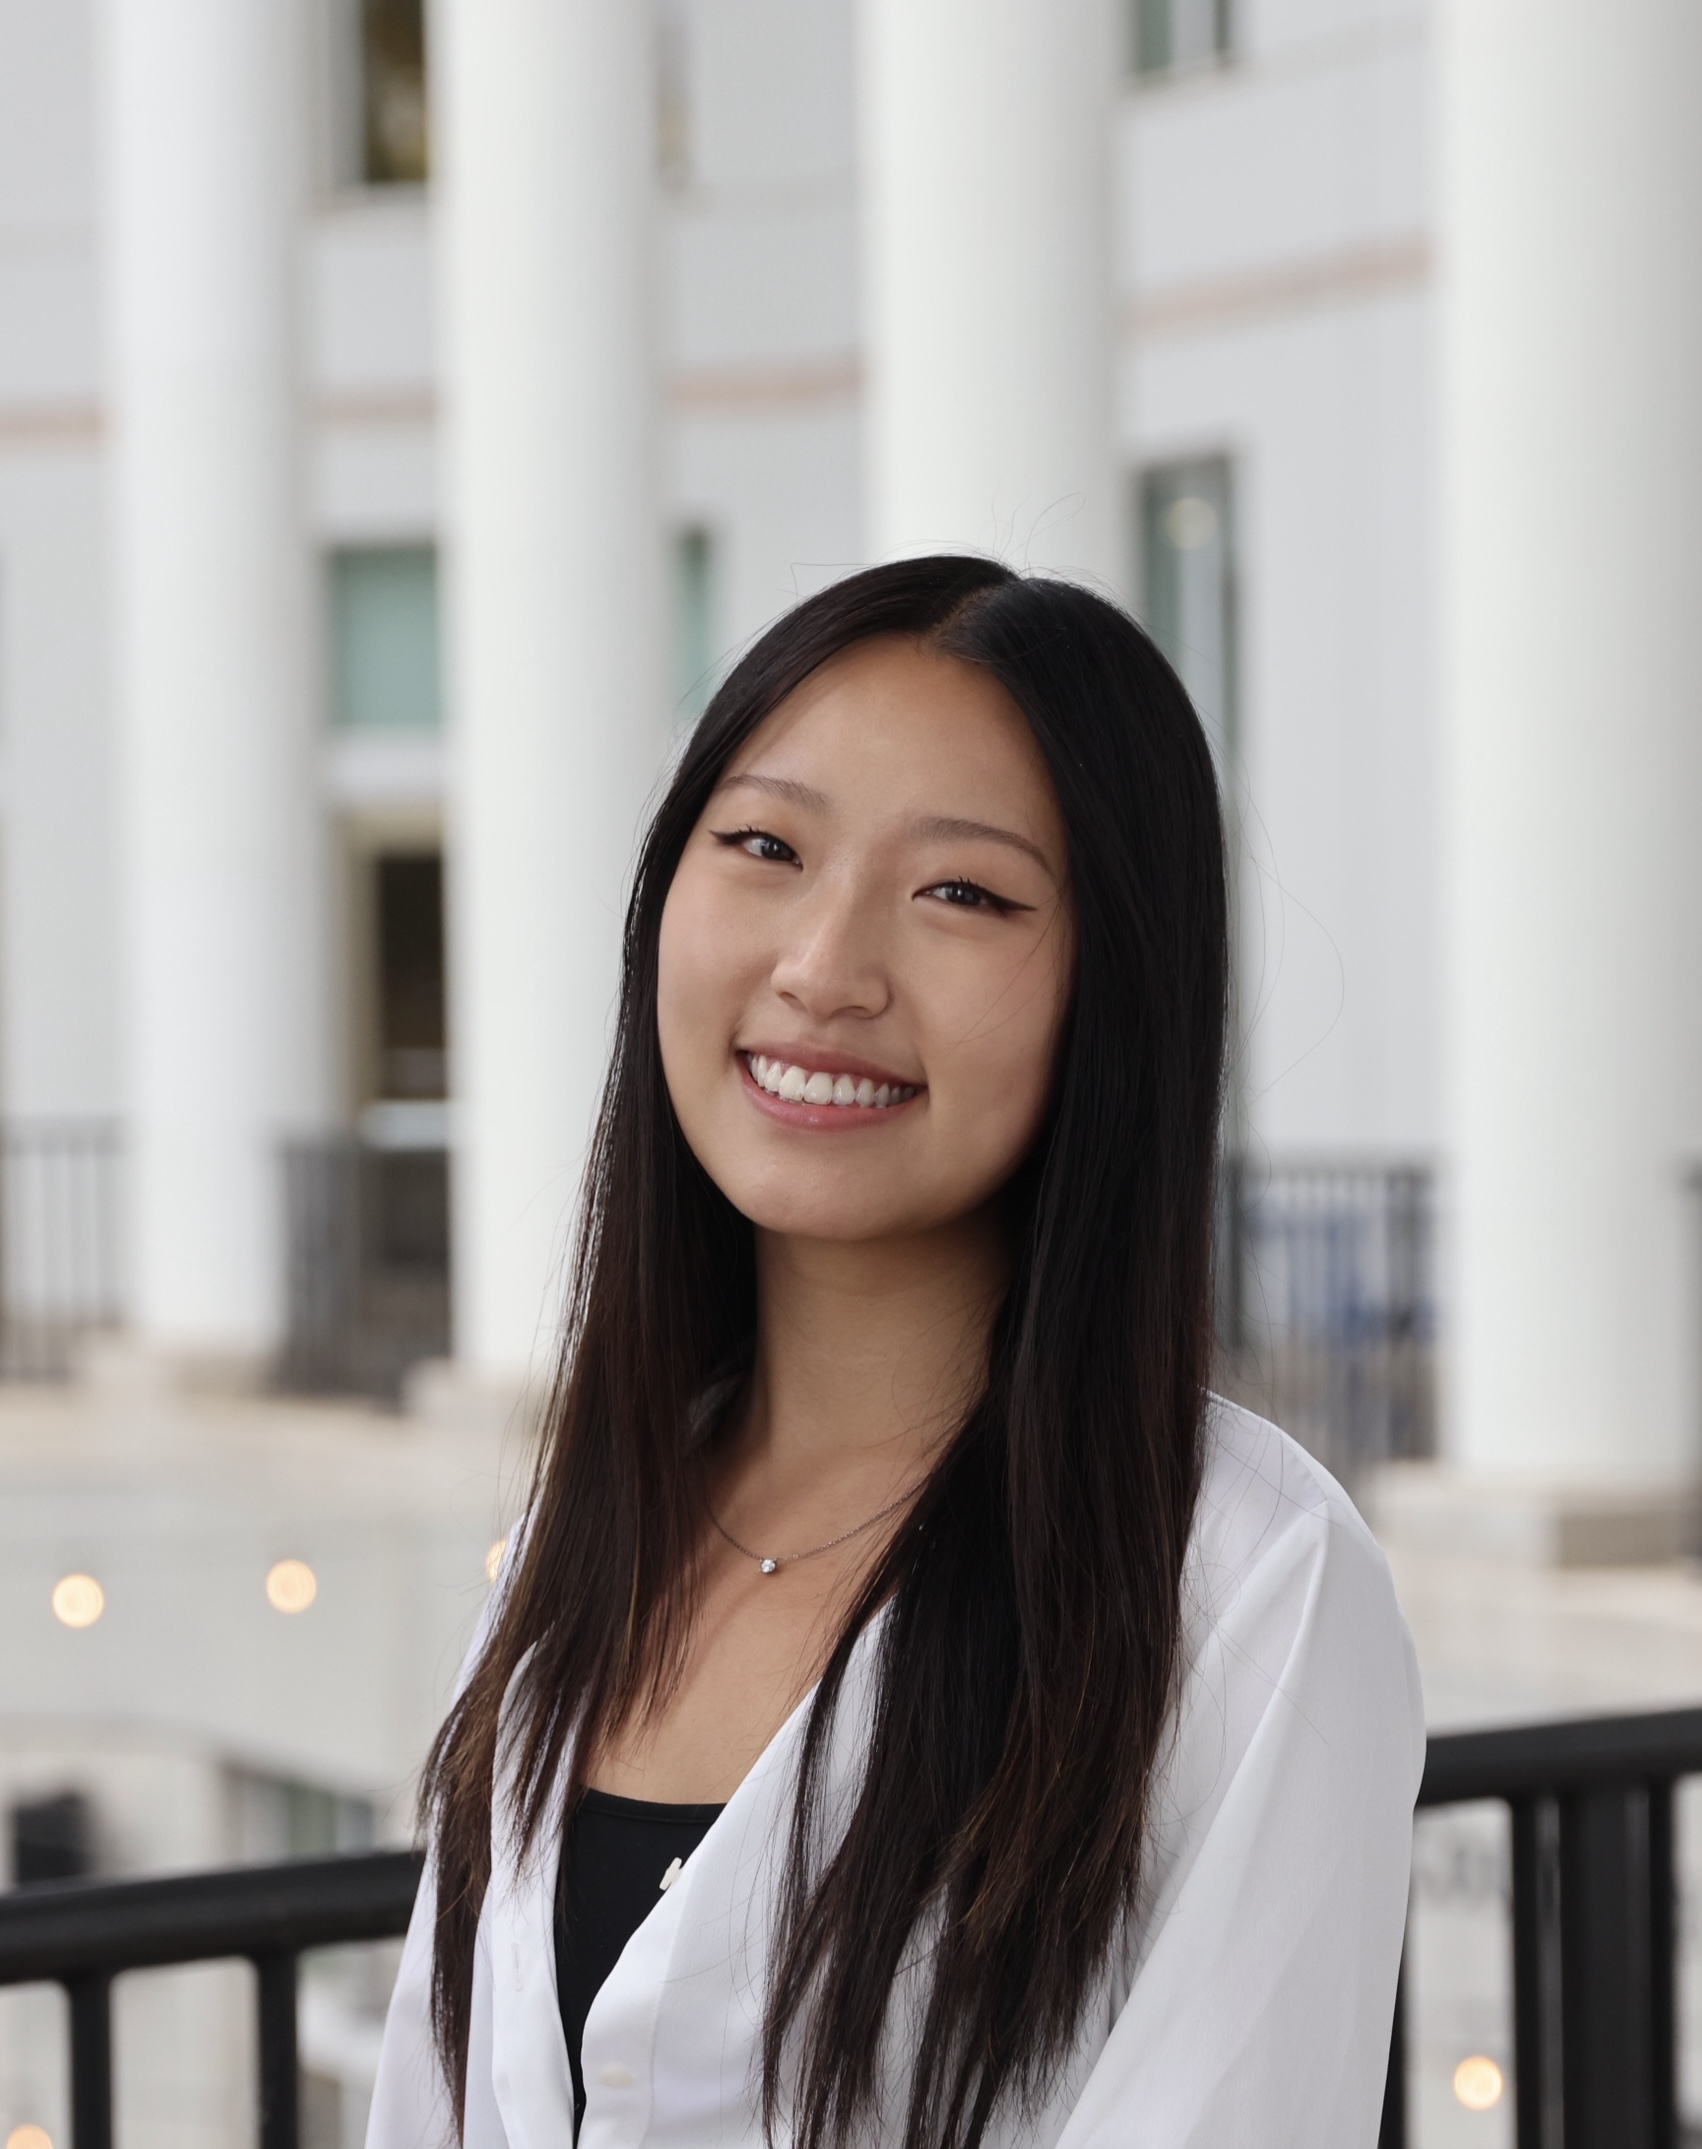
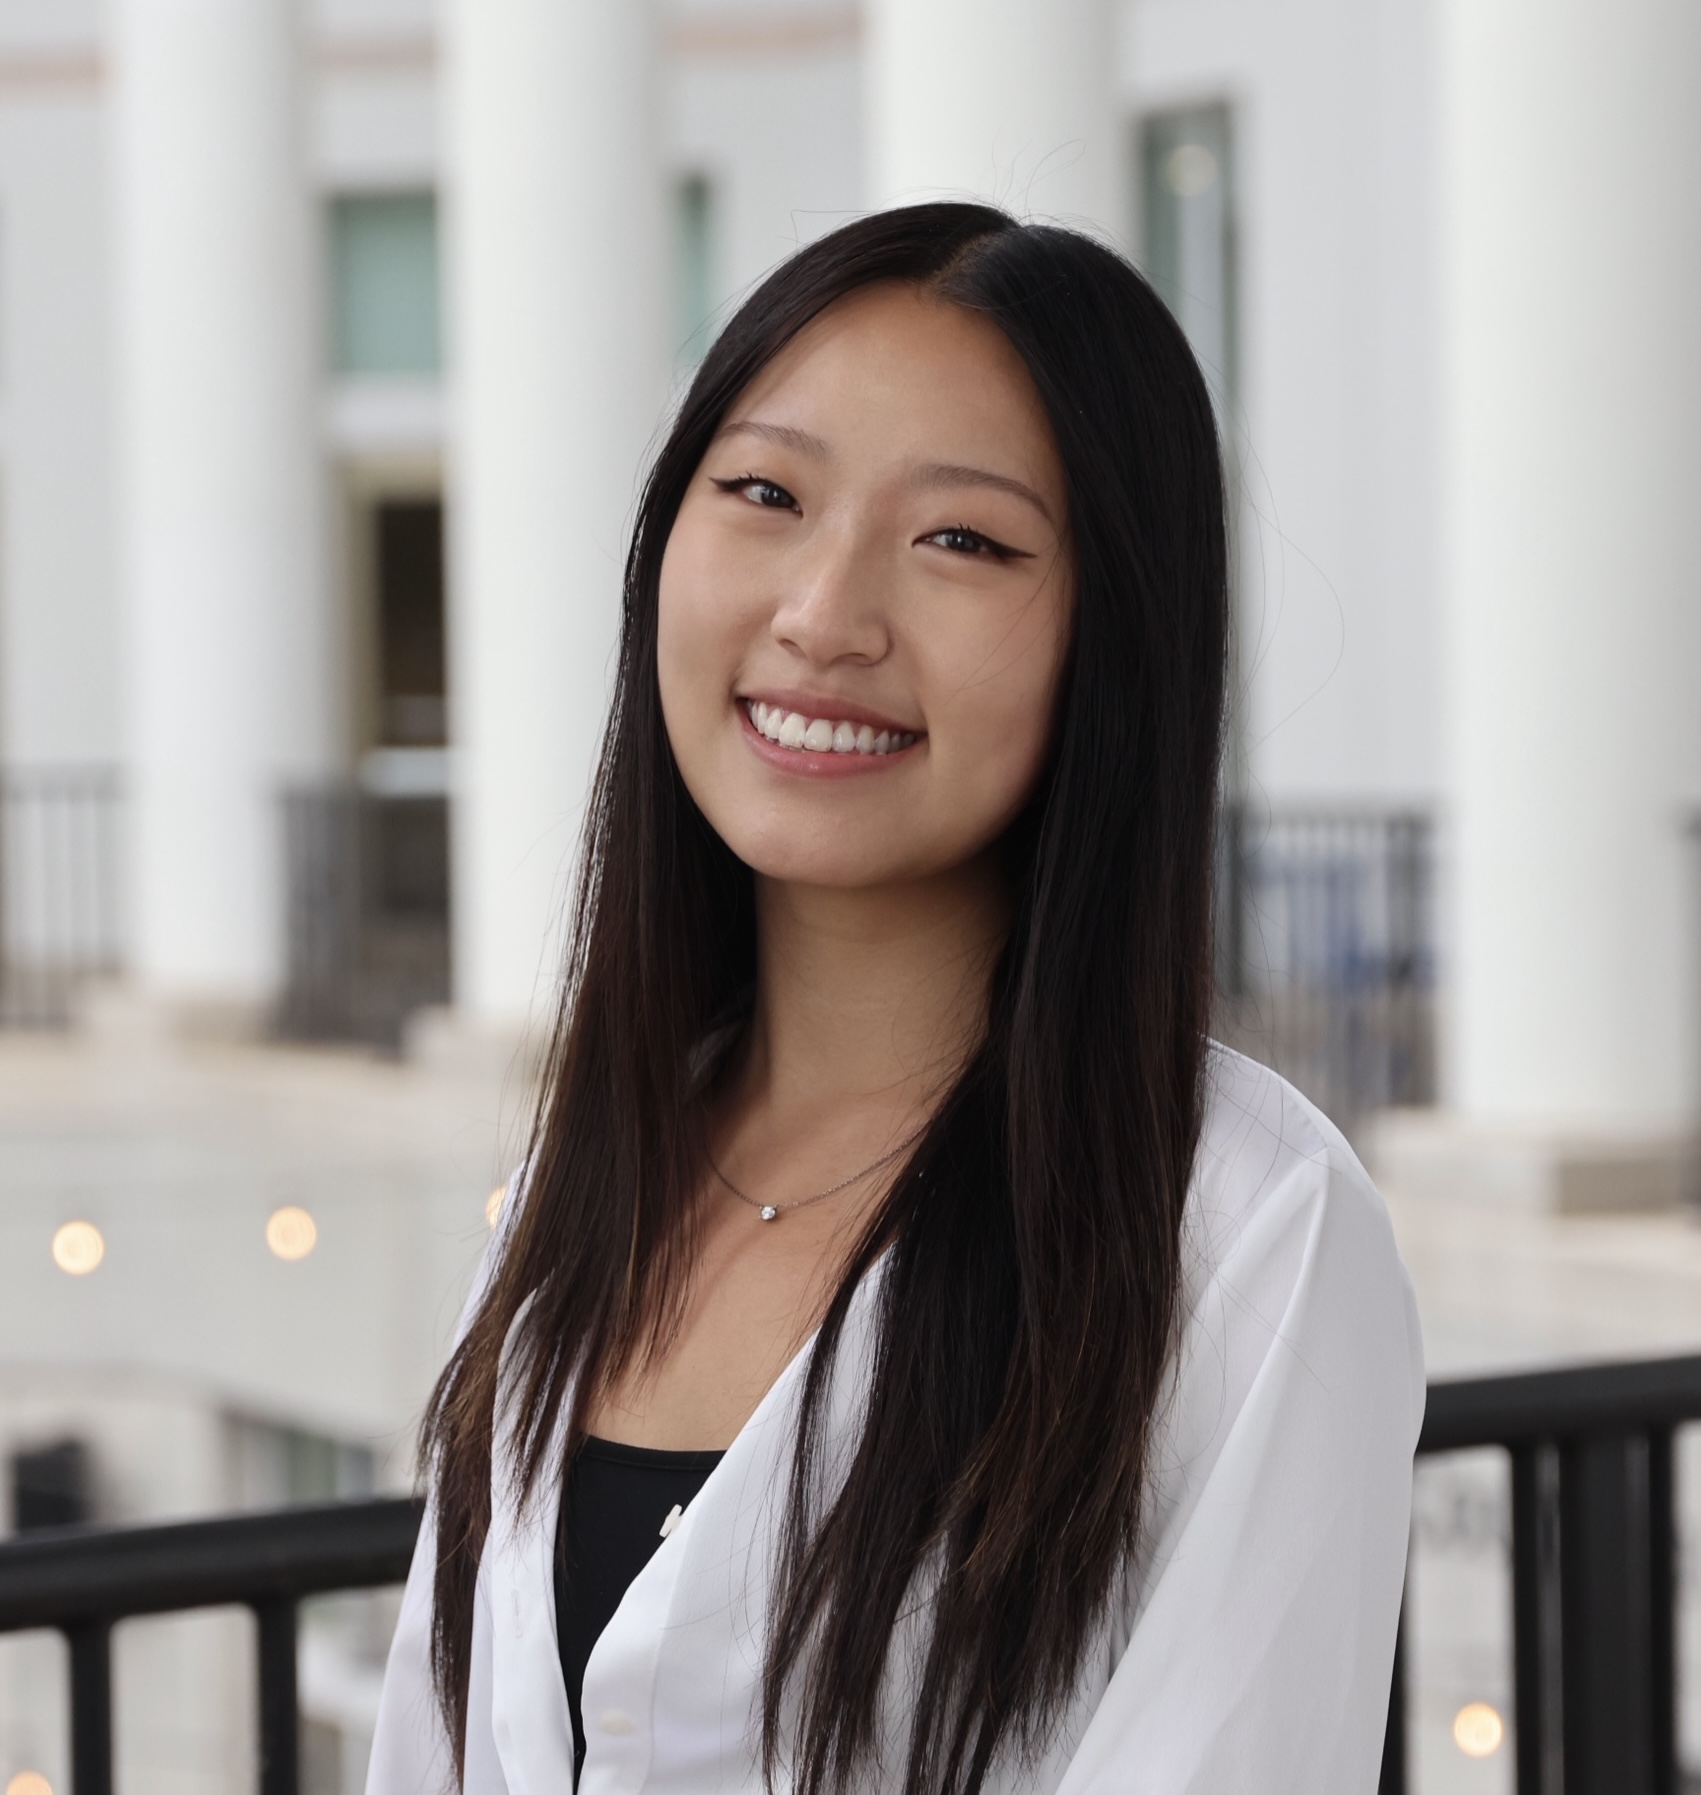
members page updated

diff --git a/src/pages/team.jsx b/src/pages/team.jsx
@@ -14,31 +14,37 @@ import m12 from "@/assets/m12.JPEG";
 import m13 from "@/assets/m13.jpg";
 import m14 from "@/assets/m14.jpg";
 import m15 from "@/assets/m15.jpg";
+import m16 from "@/assets/m16.png";
 import a1 from "@/assets/a1.JPEG";
 import a2 from "@/assets/a2.JPG";
 import a3 from "@/assets/a3.JPG";
 import a4 from "@/assets/a4.jpeg";
 const members = [
   {
-    name: "Jiwon (Izzie) Lee",
+    name: "Junseo Lee",
     role: "Co-Founder & Chief Executive Officer",
+    avatar: m2,
+  },
+  {
+    name: "Jiwon (Izzie) Lee",
+    role: "Co-Founder & Chief Financial Officer",
     avatar: m1,
   },
   {
-    name: "Junseo Lee",
-    role: "Co-Founder & Chief Operating Officer",
-    avatar: m2,
+    name: "Vancie Ruan",
+    role: "Chief Operating Officer",
+    avatar: m16,
   },
   /*{
     name: "Joshua Liz",
     role: "Sponsorship Director",
     avatar: m3,
   }, */
-  {
+  /*{
     name: "Leen Darwisha",
     role: "Network Director",
     avatar: m4,
-  },
+  },*/
   {
     name: "Elaine Kim",
     role: "Marketing Director",
@@ -115,6 +121,11 @@ const alumna = [
     name: "Monica Chen",
     role: "Technology Director",
     avatar: a4,
+  },
+  {
+    name: "Leen Darwisha",
+    role: "Network Director",
+    avatar: m4,
   },
 ];
 
